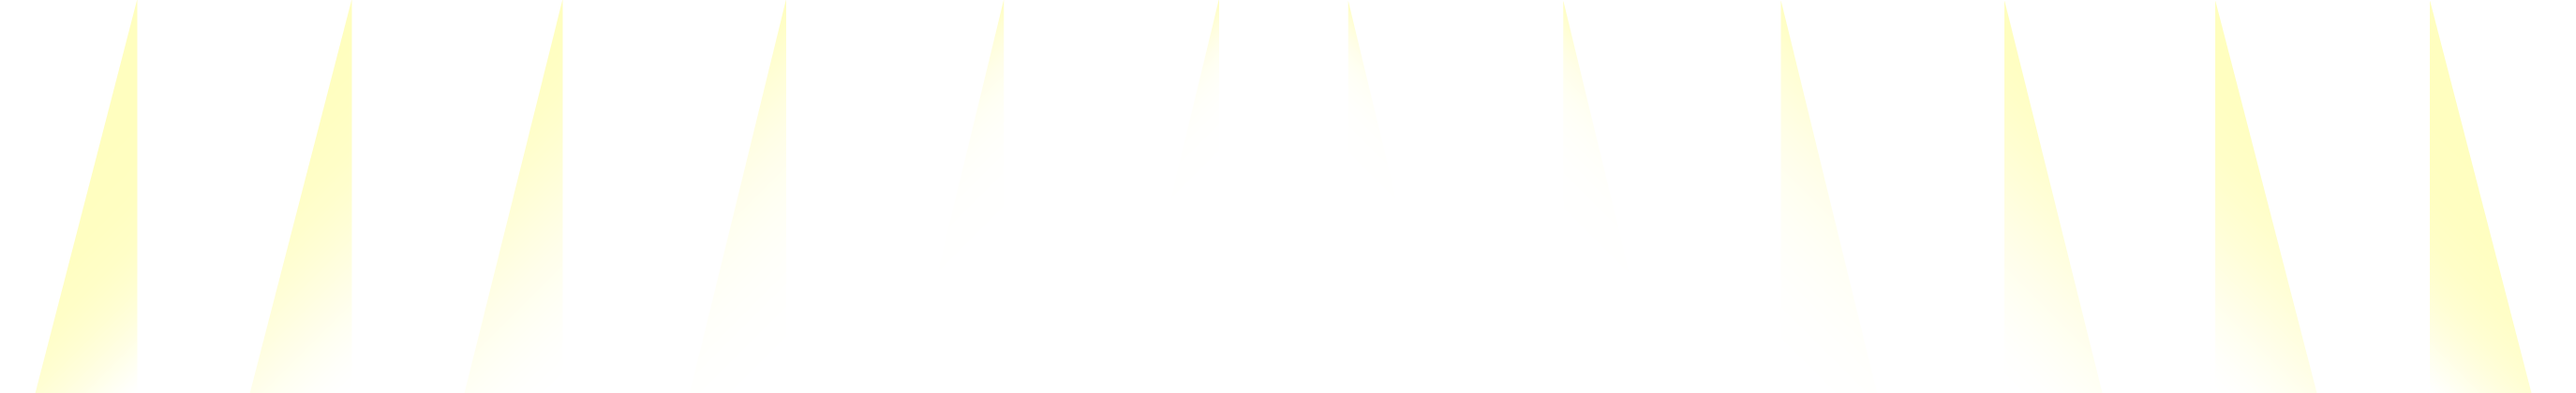
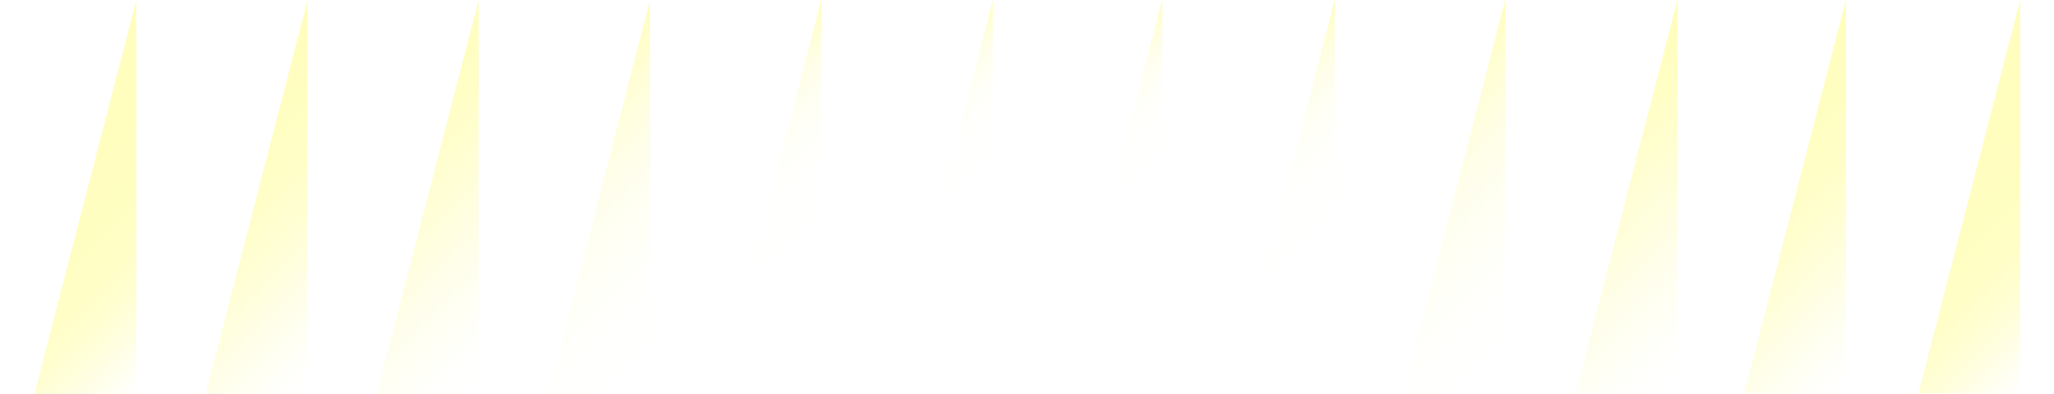
add lava sprite and animation

diff --git a/sceneB.js b/sceneB.js
@@ -14,9 +14,13 @@ class SceneB extends Phaser.Scene {
         this.load.image('BPlatform3', './images/BPlatform3.png');
         this.load.image('BPlatform4', './images/BPlatform4.png');
         
+        this.load.spritesheet('lava',
+            './images/lava32.png',
+            { frameWidth: 32, frameHeight: 32 } );
+        
         this.load.spritesheet('exit',
             './images/exit.png',
-            { frameWidth: 188, frameHeight: 420 } );
+            { frameWidth: 182.99, frameHeight: 420.67 } );
 
         this.load.spritesheet('soul',
             './images/soul.png',
@@ -27,6 +31,7 @@ class SceneB extends Phaser.Scene {
             { frameWidth: 66, frameHeight: 62 } );
         
         this.platforms = this.physics.add.staticGroup();
+        this.lava = this.physics.add.staticGroup();
         this.cursors = this.input.keyboard.createCursorKeys();
     }
     
@@ -38,6 +43,7 @@ class SceneB extends Phaser.Scene {
         this.add.image(1600, 300, 'BSpace');
         
         sceneB_set_platforms(this.platforms);
+        
         
         this.player = this.physics.add.sprite(100, 300, 'wolf');
         this.player.setBounce(0);
@@ -78,7 +84,7 @@ class SceneB extends Phaser.Scene {
         
         this.anims.create({
             key: 'exit_animate',
-            frames: this.anims.generateFrameNumbers('exit', { start: 0, end: 5 }),
+            frames: this.anims.generateFrameNumbers('exit', { start: 0, end: 11 }),
             frameRate: 8,
             repeat: -1
         });
@@ -127,6 +133,24 @@ class SceneB extends Phaser.Scene {
         this.physics.add.collider(this.player, this.exit, function(){this.need_new_scene = true}, null, this);
         this.exit.anims.play('exit_animate', true);
         
+        
+        this.anims.create({
+            key: 'lava_animate',
+            frames: this.anims.generateFrameNumbers('lava', { start: 0, end: 7 }),
+            frameRate: 8,
+            repeat: -1
+        });
+        sceneB_set_lava(this.lava);
+        this.lavaCollider = this.physics.add.collider(this.player, this.lava, hitEnemy, null, this);
+
+        
+    //    var triangle = new Phaser.Geom.Triangle.BuildEquilateral(400, 25, 450);
+    //    var graphics = this.add.graphics({ lineStyle: { width: 2, color: 0xaaaa00 } });
+    //           graphics.strokeTriangleShape(triangle);
+    //    var test_platform = this.platforms.create(250,388, 'BPlatform2');
+    //    test_platform.body.setGameObject(triangle);
+    //    test_platform.body.update();
+        
     }
 
     
@@ -142,10 +166,14 @@ class SceneB extends Phaser.Scene {
         animate_demons(this);
         animate_souls(this);
         
-        if(this.player.ghost_mode)
+        if(this.player.ghost_mode) {
             this.enemyCollider.active = false;
-        else
+            this.lavaCollider.active = false;
+        }
+        else {
             this.enemyCollider.active = true;
+            this.lavaCollider.active = true;
+        }
         
         //this.scene.start('SceneD');
     }

diff --git a/index.htm b/index.htm
@@ -11,10 +11,10 @@
     <script src="./animate_player.js"></script>
     <script src="./animate_enemies.js"></script>
     <script src="./animate_loot.js"></script>
-    <script src="./sceneB_set_platforms.js"></script>
+    <script src="./sceneB_build.js"></script>
     <script src="./sceneB.js"></script>
     <script src="./sceneC.js"></script>
-    <script src="./sceneD_set_platforms.js"></script>
+    <script src="./sceneD_build.js"></script>
     <script src="./sceneD.js"></script>
     <script src="./cerber_main.js"></script>
 </body>

diff --git a/sceneB_build.js b/sceneB_build.js
@@ -23,3 +23,12 @@ function sceneB_set_platforms (platforms)
     platforms.create(1344,485, 'BPlatform4').setScale(1.5).refreshBody();
     platforms.create(2706,485, 'BPlatform4').setScale(1.5).refreshBody();
 }
+
+function sceneB_set_lava (lava) 
+{
+    lava.create(300, 500, 'lava').anims.play('lava_animate', true);
+    lava.create(332, 500, 'lava').anims.play('lava_animate', true);
+    lava.create(364, 500, 'lava').anims.play('lava_animate', true);
+    lava.create(396, 500, 'lava').anims.play('lava_animate', true);
+
+}
